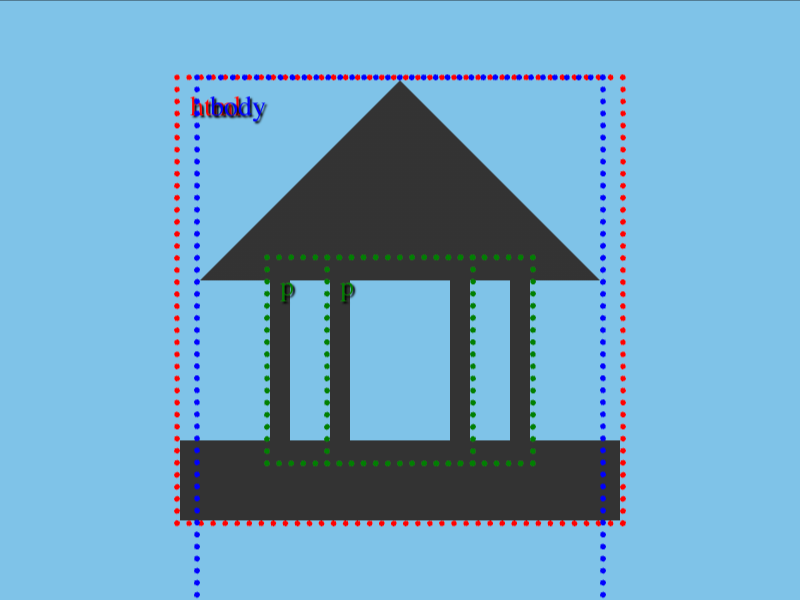
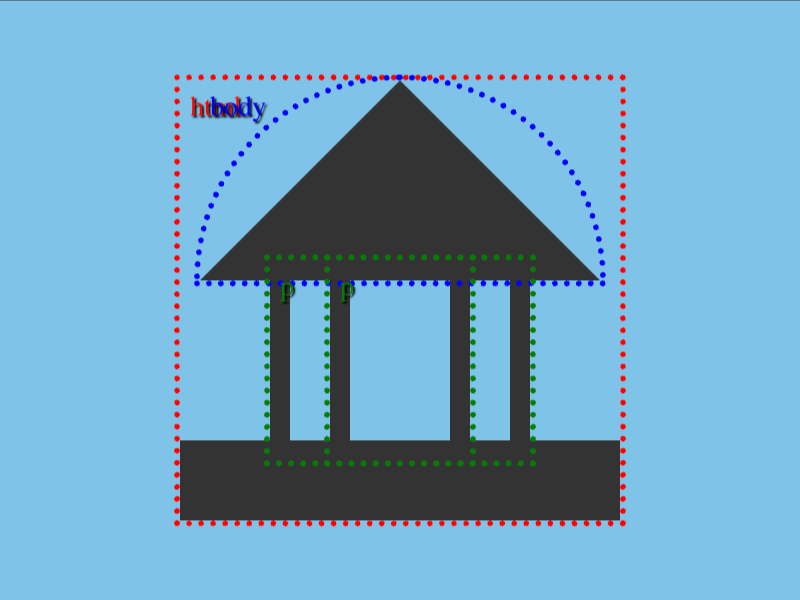
Score: 613.19, Characters: 356 (100.00% match) - CSSHub

diff --git a/Daily Targets/2026-09-17/README.md b/Daily Targets/2026-09-17/README.md
@@ -30,8 +30,10 @@ Challenge: <https://cssbattle.dev/play/FI82QbLNuW9WtU2AemyW>
   border-bottom:5ch solid #333;
   &>*{
     margin:0 10;
-    background:linear-gradient(#333 25vw,#0000 0);
-    clip-path:polygon(50%0,100%25vw,100% 100%,0 100%,0 25vw);
+    background:#333;
+    height:100;
+    border-radius:9in 9in 0 0;
+    corner-shape:bevel;
     p{
       border:10px solid#333;
       height:80;
@@ -56,8 +58,10 @@ Challenge: <https://cssbattle.dev/play/FI82QbLNuW9WtU2AemyW>
   border-bottom:5ch solid #333;
   &>*{
     margin:0 10;
-    background:linear-gradient(#333 25vw,#0000 0);
-    clip-path:polygon(50%0,100%25vw,100% 100%,0 100%,0 25vw);
+    background:#333;
+    height:100;
+    border-radius:9in 9in 0 0;
+    corner-shape:bevel;
     p{
       border:10px solid#333;
       height:80;

diff --git a/README.md b/README.md
@@ -255,7 +255,7 @@ Note - I have not yet complete all the challenges.
 <li><a href="./Daily%20Targets/2026-09-14/">Sep 14, 2026</a> (208 Characters)</li>
 <li><a href="./Daily%20Targets/2026-09-15/">Sep 15, 2026</a> (161 Characters)</li>
 <li><a href="./Daily%20Targets/2026-09-16/">Sep 16, 2026</a> (184 Characters)</li>
-<li><a href="./Daily%20Targets/2026-09-17/">Sep 17, 2026</a> (377 Characters)</li>
+<li><a href="./Daily%20Targets/2026-09-17/">Sep 17, 2026</a> (356 Characters)</li>
 </ul>
 </details>
 </li>
